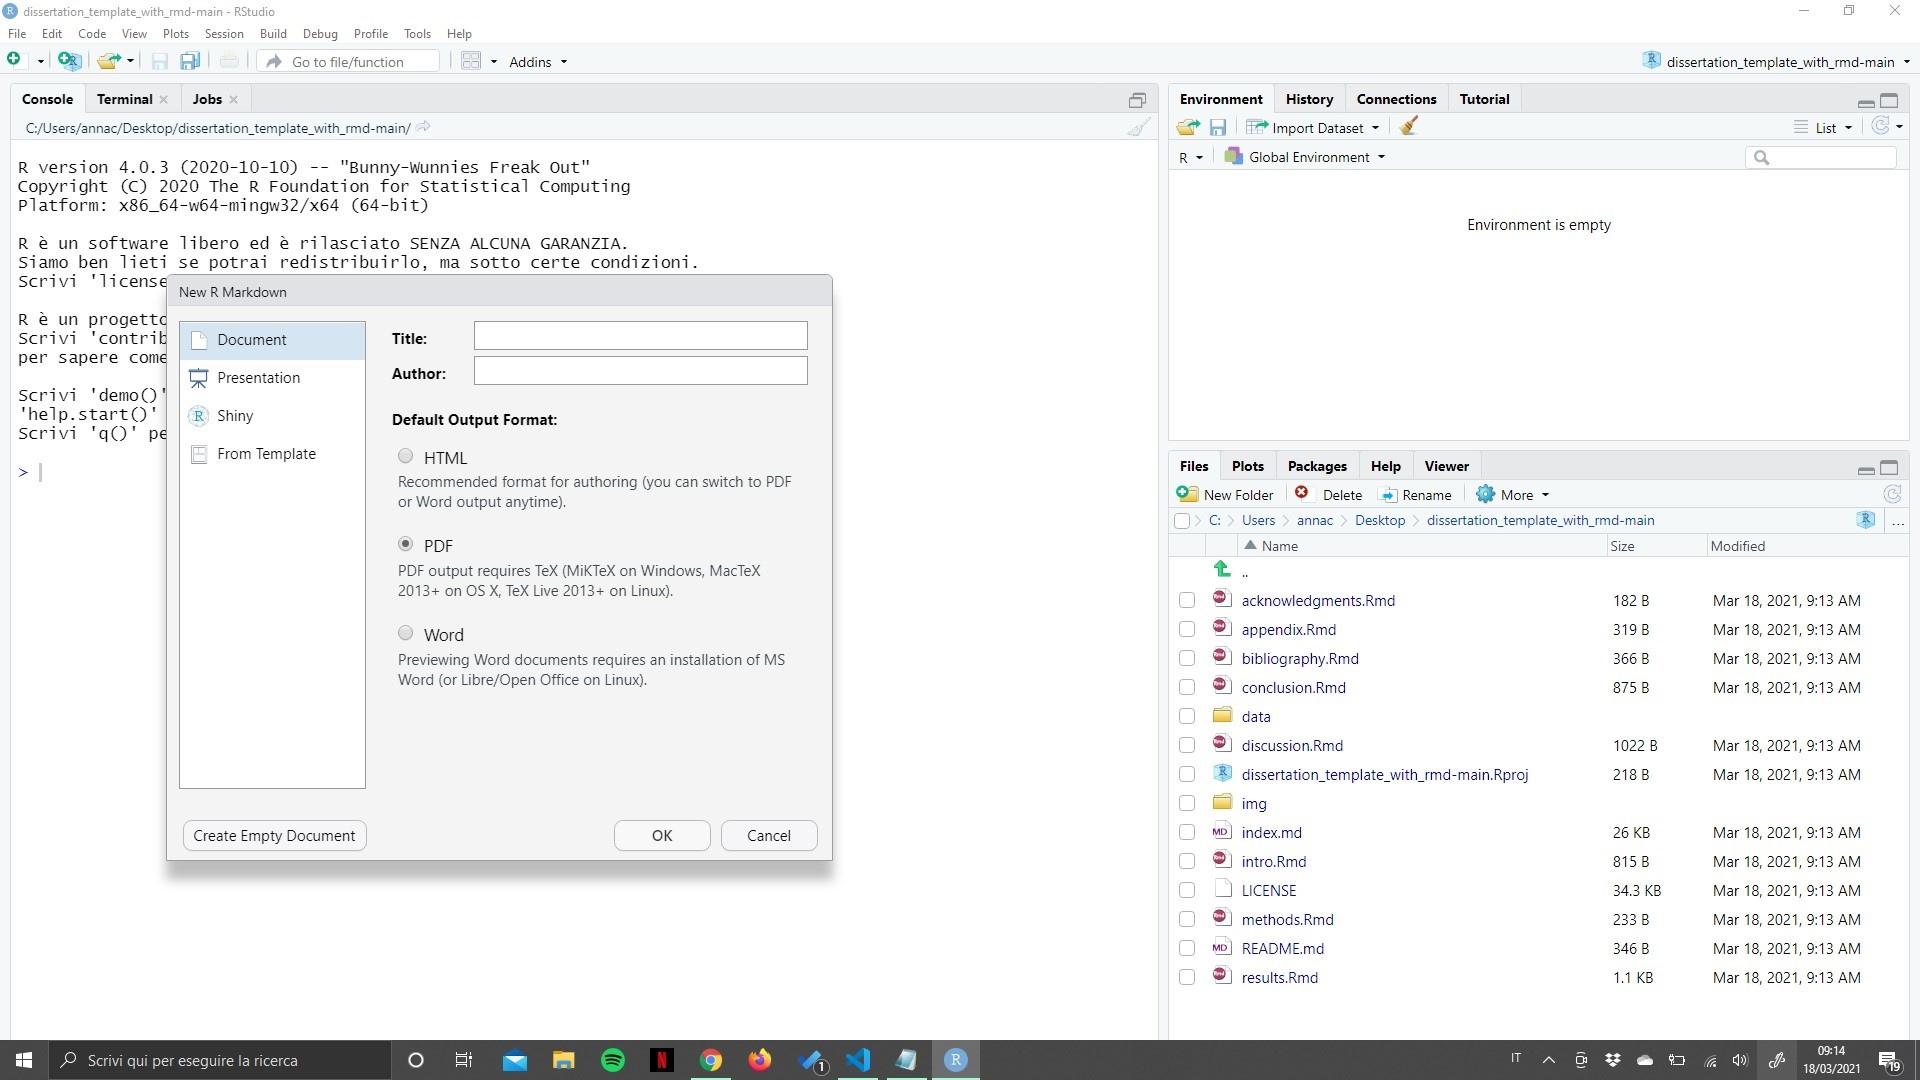
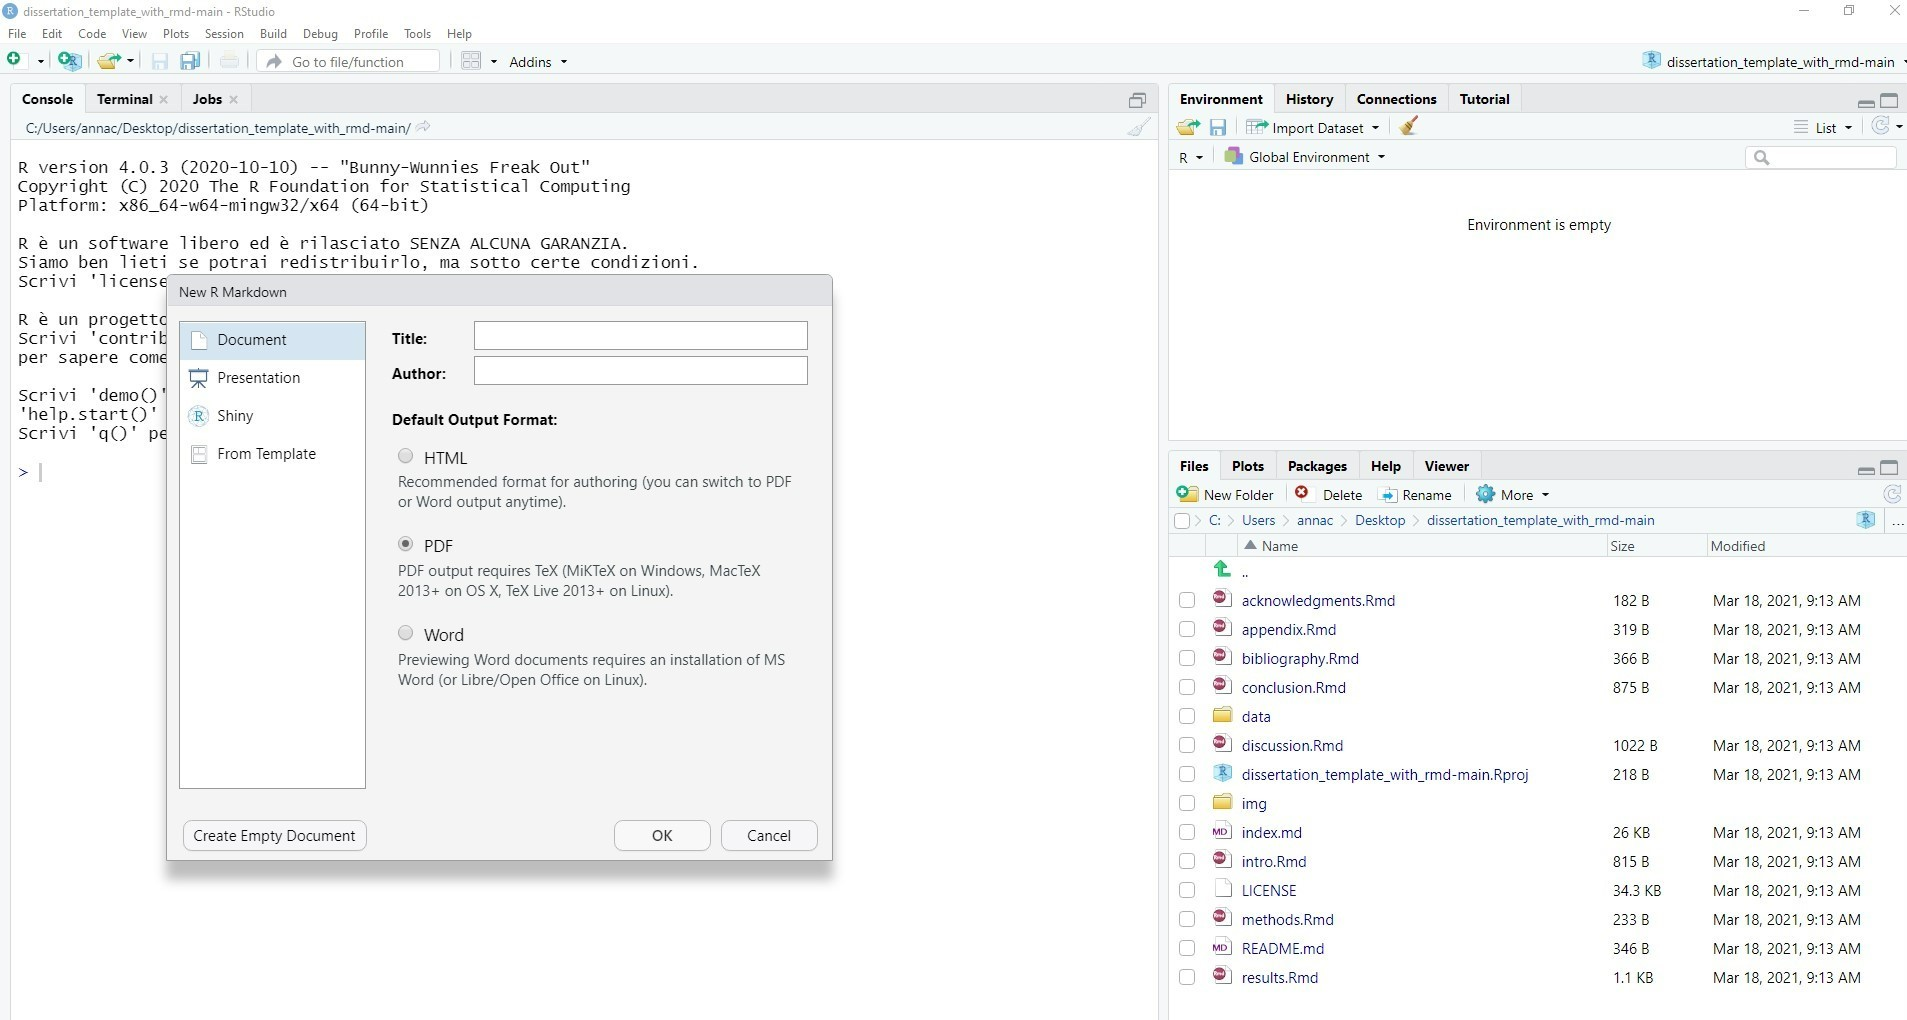
fixed - cropped img

diff --git a/index.md b/index.md
@@ -61,7 +61,7 @@ First thing to do is to download the [tutorial repo](https://github.com/AnnaChir
 
 Once you have created a new Rmarkdown document, leave title and author blank (you don't want these to appear at the top of your pdf) and select PDF as the Default Output Format. Click OK and let's start writing in the new file.
 
-![opening_md](https://user-images.githubusercontent.com/43357858/111607859-ed5e5480-87d8-11eb-9c4a-732b7ffd9795.jpg)
+![opening_md](https://user-images.githubusercontent.com/43357858/111620941-a75cbd00-87e7-11eb-84cc-6f4e51be7a31.jpg)
 
 You will see at the top a section called **YAML header**, delimited by three hyphens (---). The header embeds the information that you have just given (blank for the title, no author and pdf_document as your desired output), and allows you to set the rules that are going to be applied throught the document (as well as the **linked** documents). **This header will not show in the output.**
 
@@ -161,7 +161,7 @@ knitr::include_graphics("img/uniedlogo.png")
 
 This way, the image of the UoE logo is going to appear at the top of the page. 
 
-![uni_logo_chunk](https://user-images.githubusercontent.com/43357858/111608004-10890400-87d9-11eb-8b1a-f706c33e6af5.png)
+![uni_logo_chunk](https://user-images.githubusercontent.com/43357858/111621001-bc395080-87e7-11eb-81f1-a0f6b97d65df.png)
 
 As you can see, I have **named** the code chunk "uni_logo", making it easier to retrieve the chunk later on, when there are going to be many more. 
 
